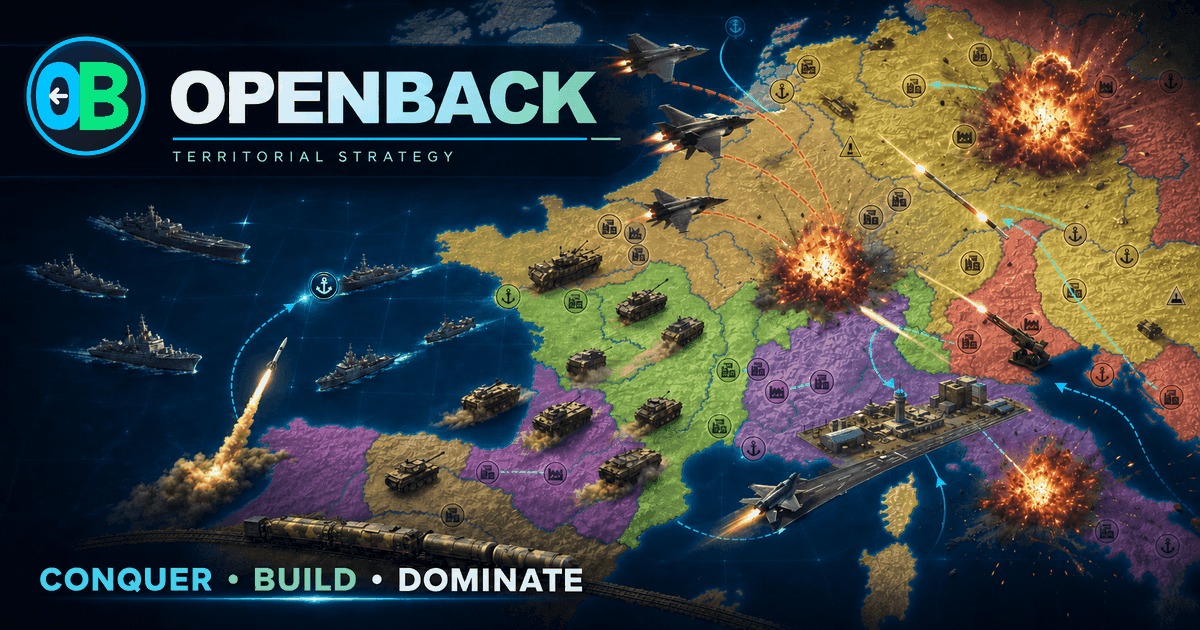
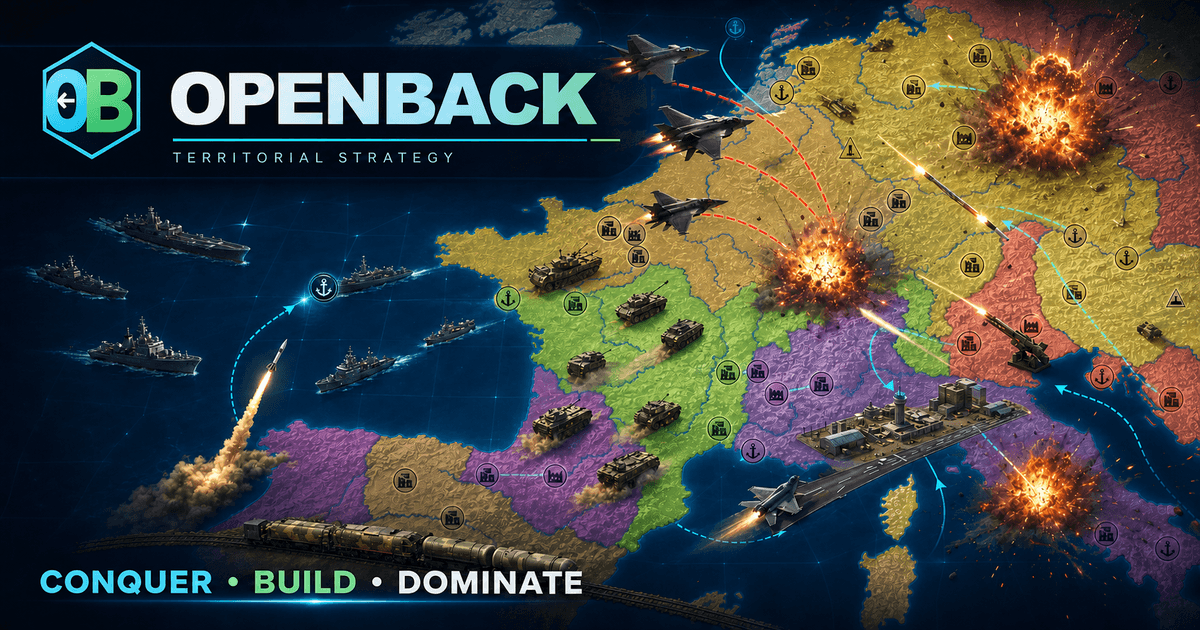
Restore complete battle artwork

diff --git a/tests/client/graphics/layers/WinModal.test.ts b/tests/client/graphics/layers/WinModal.test.ts
@@ -114,4 +114,22 @@ describe("WinModal Requeue", () => {
       expect(hasRequeue).toBe(false);
     });
   });
+
+  it("shows the complete battle artwork without cropping it", async () => {
+    const { WinModal } =
+      await import("../../../../src/client/hud/layers/WinModal");
+    const modal = new WinModal();
+    Object.assign(modal, { deathMedia: "battle", isVisible: true });
+    document.body.append(modal);
+    await modal.updateComplete;
+
+    const artwork = modal.querySelector<HTMLImageElement>(
+      'img[alt="OpenBack battle"]',
+    );
+    expect(artwork).not.toBeNull();
+    expect(artwork?.classList.contains("object-contain")).toBe(true);
+    expect(artwork?.classList.contains("object-cover")).toBe(false);
+
+    modal.remove();
+  });
 });

diff --git a/src/client/hud/layers/WinModal.ts b/src/client/hud/layers/WinModal.ts
@@ -111,7 +111,7 @@ export class WinModal extends LitElement implements Controller {
             `
           : html`
               <img
-                class="absolute inset-0 h-full w-full object-cover"
+                class="absolute inset-0 h-full w-full object-contain"
                 src=${assetUrl("images/OpenBackSocialPreview.png")}
                 alt="OpenBack battle"
               />

diff --git a/resources/changelog.md b/resources/changelog.md
@@ -1,3 +1,10 @@
+## OpenBack v0.34.108 - Complete Battle Artwork
+
+- Restored the full OpenBack battlefield artwork with its larger collection of aircraft, ships, tanks, missiles, structures, routes, and explosions while removing the tank that appeared in the water.
+- Made the defeat screen preserve the complete artwork instead of cropping its outer edges.
+
+Created by **frootz jhklphy**.
+
 ## OpenBack v0.34.107 - Complete 3D Battlefield Parity
 
 - Raised all 3D land relief by 50% through one canonical terrain-height contract shared by terrain interaction and the remaining 3D parity work.
